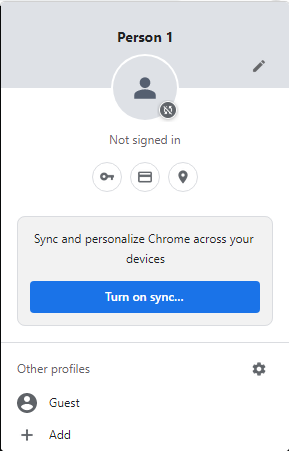
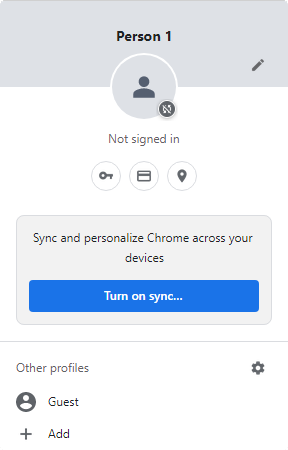
transparency

diff --git a/pipattack.html b/pipattack.html
@@ -73,17 +73,6 @@ document.getElementById("atk").addEventListener("click", e => {
       sselem.style.left = `-${sselem.width - 377}px`;
       pip.window.document.body.appendChild(sselem);
 
-      const fakebody = pip.window.document.createElement('div');
-      fakebody.style.position = "fixed";
-      fakebody.style.width = "100%";
-      fakebody.style.height = "calc(100% - 50px)";
-      fakebody.style.top = "39px";
-      fakebody.style.left = "0";
-      fakebody.style.height = "110%";
-      fakebody.style.borderTop = "1px solid rgb(219, 220, 221)";
-      fakebody.style.backgroundColor = "rgb(84, 84, 84)";
-      pip.window.document.body.appendChild(fakebody);
-
       const fakesync = pip.window.document.createElement('img');
       fakesync.src = "fakesync.png";
       fakesync.style.position = "fixed";
